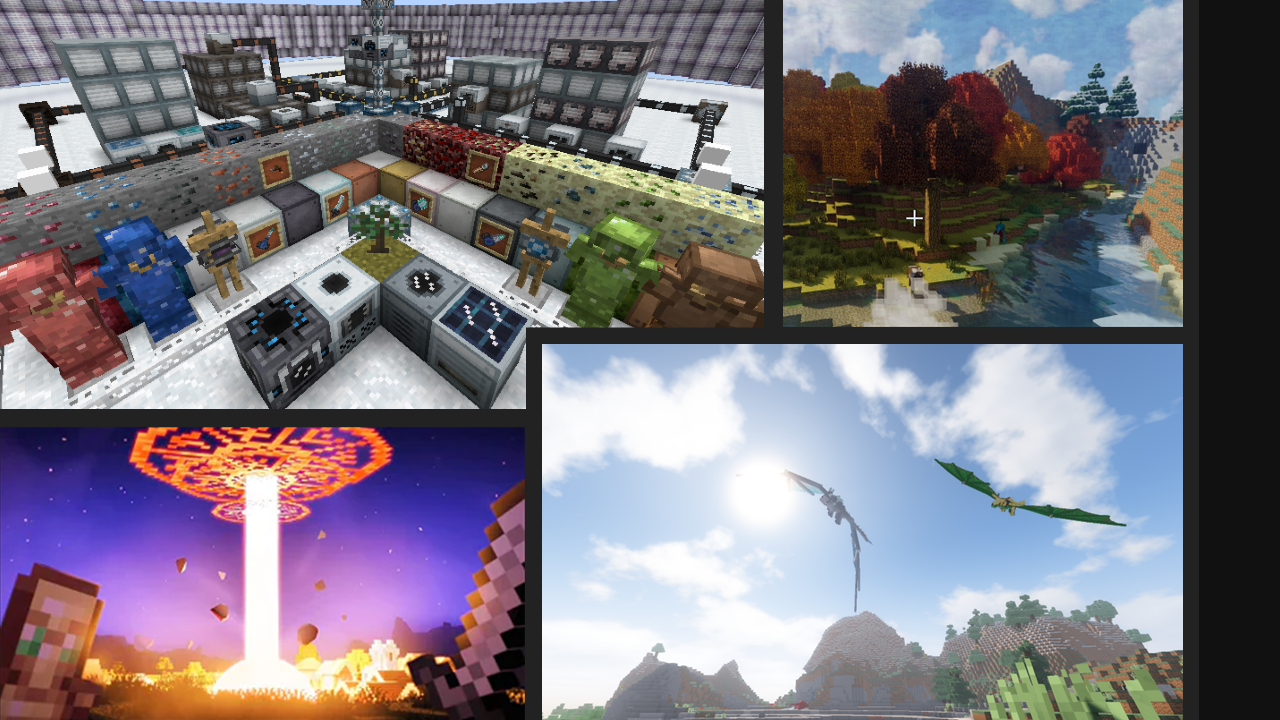
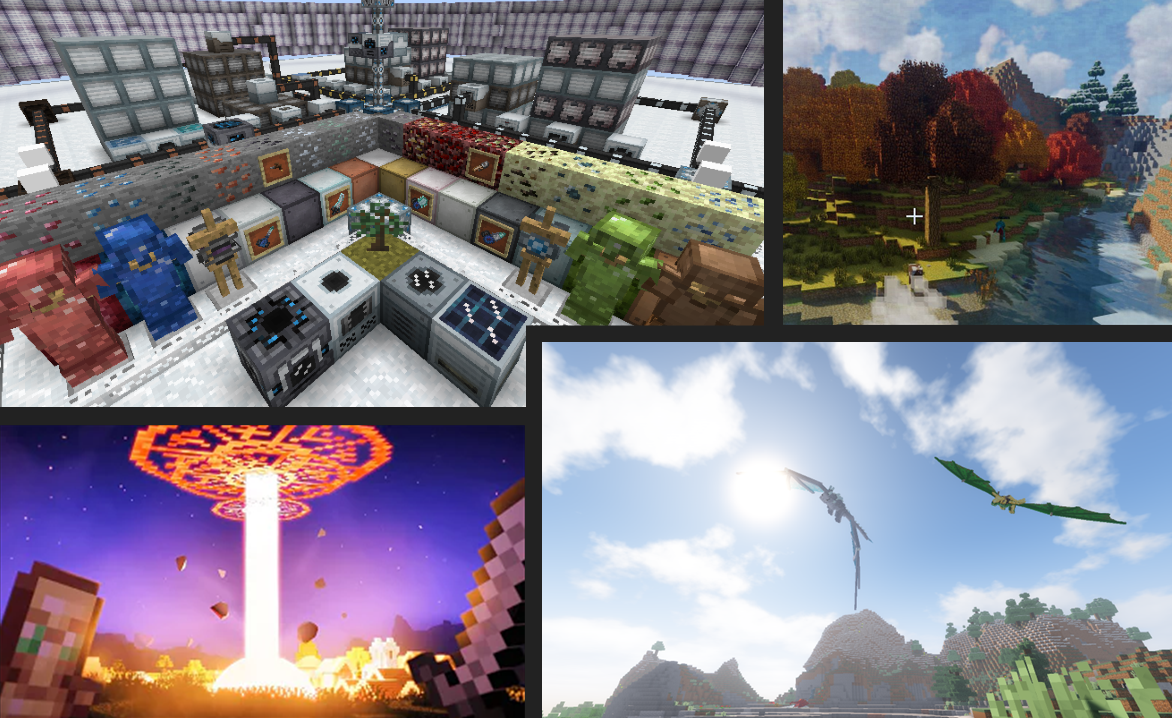
個人ページのファイル整理、微調整

diff --git a/games/minecraft/style.css b/games/minecraft/style.css
@@ -23,7 +23,7 @@
     background-repeat: no-repeat;
     background-position: center;
     position: absolute;
-    top: 104%;
+    top: 102%;
     width: 99%;
     height: 100%;
 }
@@ -43,14 +43,14 @@
     background-repeat: no-repeat;
     background-position: center;
     position: absolute;
-    top: 205%;
+    top: 203%;
     width: 99%;
     height: 105%;
 }
 
 .container2 {
     position:absolute;
-    top:102vh;
+    top:101vh;
     left:5%;
 }
 
@@ -73,7 +73,7 @@
 
 .container3 {
     position:absolute;
-    top:198vh;
+    top:202vh;
     left:5%;
 }
 
@@ -87,8 +87,7 @@
     background-repeat: no-repeat;
     background-position: center;
     position: absolute;
-    left:10%;
-    top: 311%;
+    top: 309%;
     width: 99%;
     height: 105%;
 }
@@ -104,6 +103,6 @@
 
 .container4 {
     position:absolute;
-    top:302vh;
+    top:308vh;
     left:3%;
 }
